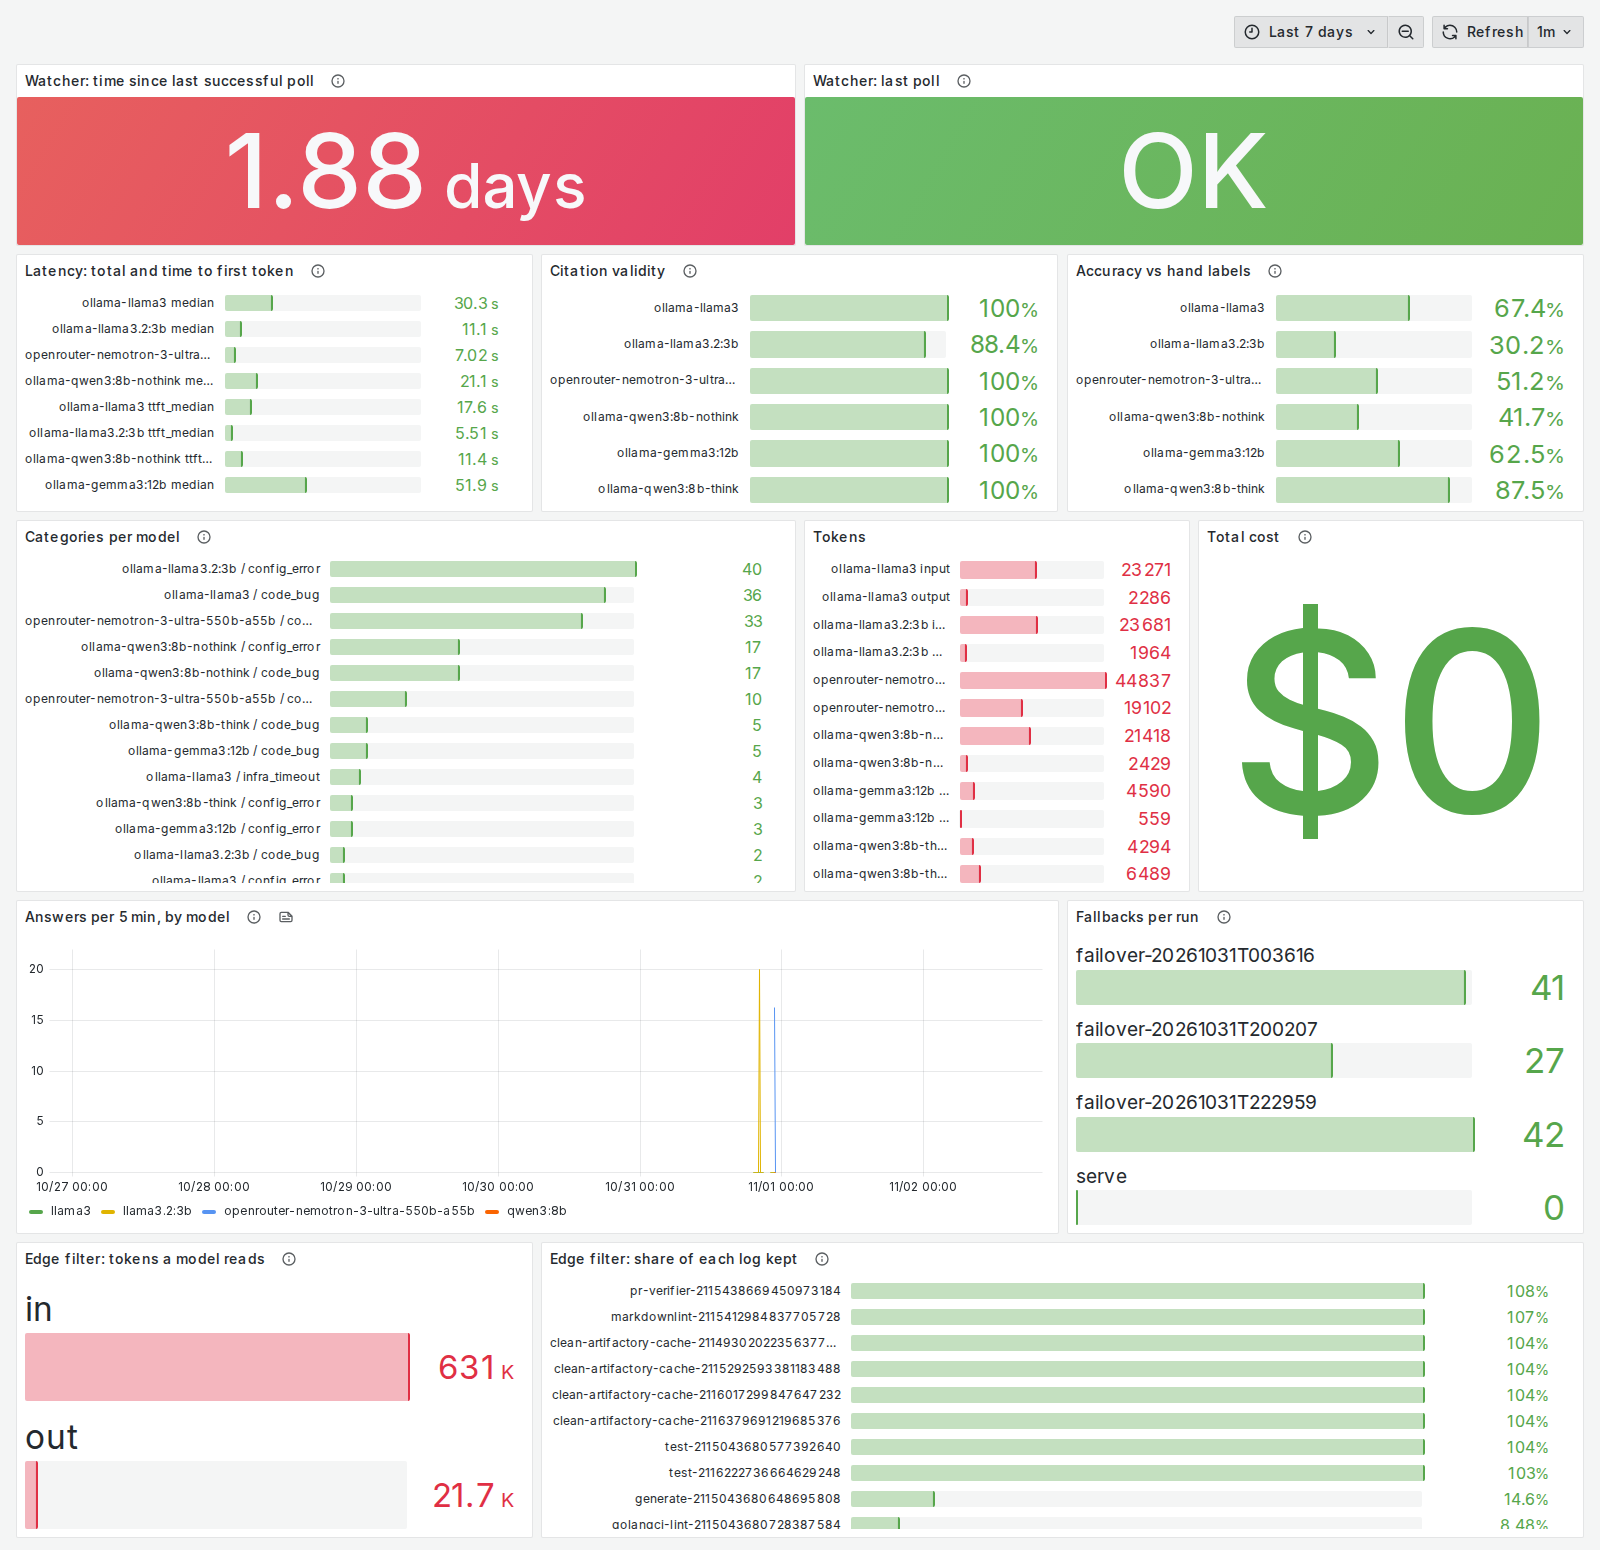
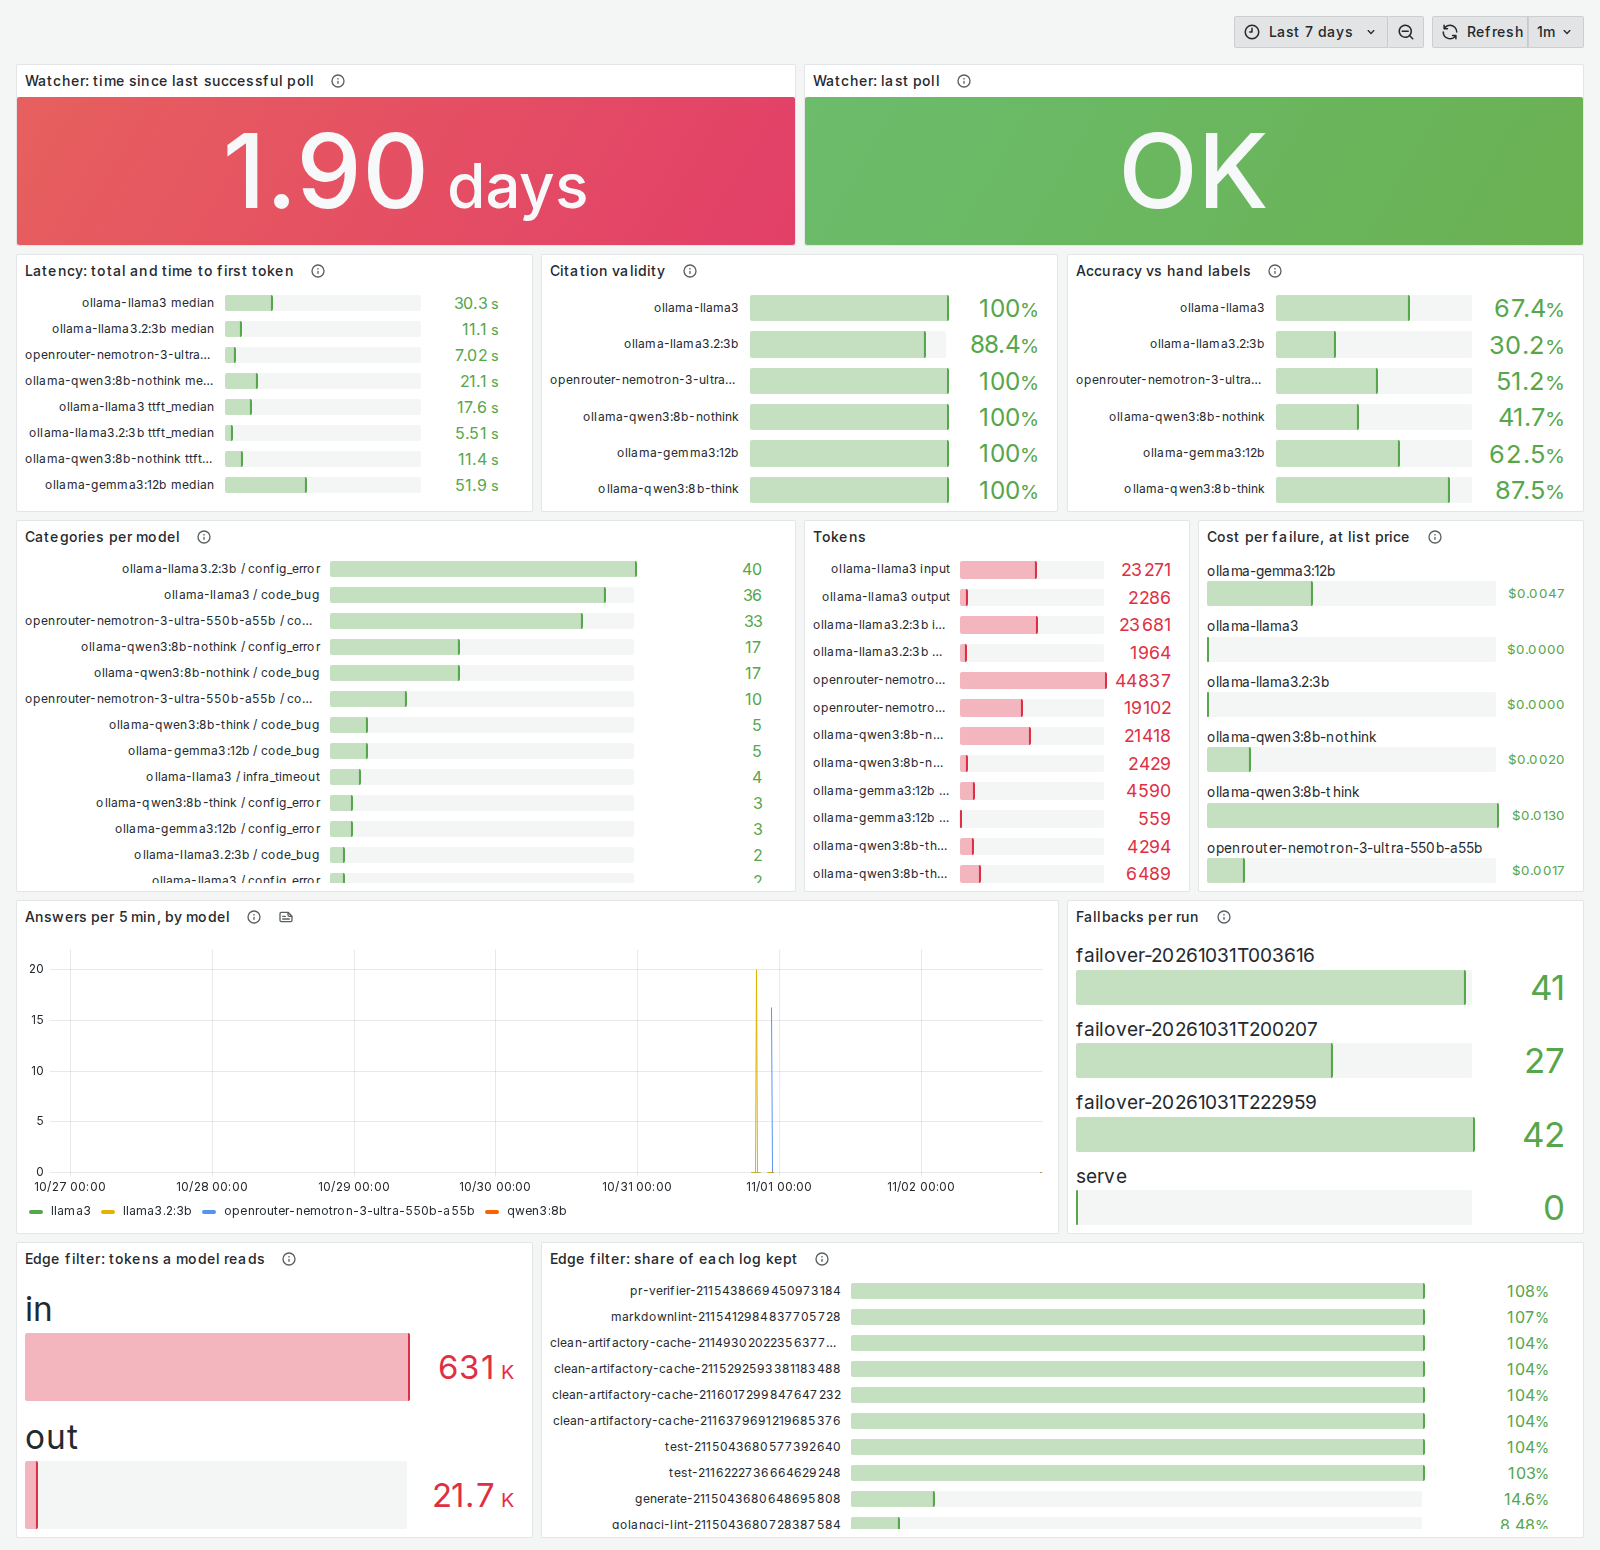
Cost per failure at list price: paid API price for the free model, VM hourly rate for self-hosted

diff --git a/exporter.py b/exporter.py
@@ -42,6 +42,19 @@ def metrics(jobs):
     return "\n".join(out) + "\n"
 
 
+# We run the free OpenRouter tier and a VM we pay for by the hour, so "cost" here is what each answer would cost at list
+# price: the paid variant of the same model (same tokens), or the VM's hourly rate for the time the answer took.
+API_PRICE = {"openrouter-nemotron-3-ultra-550b-a55b": (0.60, 2.40)}  # $ per M tokens in, out; OpenRouter, 2026-11-02
+VM_MODELS = ("ollama-qwen3", "ollama-gemma3")  # ran on the GCP VM; llama3 and 3B ran on the laptop, no cloud cost
+VM_PER_HOUR = 0.295  # e2-standard-8, europe-north1, on demand. ponytail: busy time only; idle VM hours are not spread over answers
+
+
+def list_cost(r):
+    if r["model"] in API_PRICE:
+        p_in, p_out = API_PRICE[r["model"]]
+        return (r["input_tokens"] * p_in + r["output_tokens"] * p_out) / 1e6
+    return r["latency_s"] * VM_PER_HOUR / 3600 if r["model"].startswith(VM_MODELS) else 0.0
+
 def llm_metrics(results, labels, serve_runs):
     """results: triage-*.json dicts with "job" added; labels: {job: category}; serve_runs: {run: [jsonl records]}."""
     from labels import accuracy
@@ -73,8 +86,12 @@ def llm_metrics(results, labels, serve_runs):
     for m, rs in sorted(by_model.items()):
         out += [f'metal3_triage_tokens{{model="{m}",dir="input"}} {sum(r["input_tokens"] for r in rs)}',
                 f'metal3_triage_tokens{{model="{m}",dir="output"}} {sum(r["output_tokens"] for r in rs)}']
-    out += ["# HELP metal3_triage_cost_usd Total API cost per model.", "# TYPE metal3_triage_cost_usd gauge"]
-    out += [f'metal3_triage_cost_usd{{model="{m}"}} {sum(r["cost_usd"] for r in rs)}' for m, rs in sorted(by_model.items())]
+    out += ["# HELP metal3_triage_cost_usd Cost at list price (see list_cost), total and mean per failure, per model.",
+            "# TYPE metal3_triage_cost_usd gauge"]
+    for m, rs in sorted(by_model.items()):
+        c = [list_cost(r) for r in rs]
+        out += [f'metal3_triage_cost_usd{{model="{m}",stat="total"}} {sum(c):.6f}',
+                f'metal3_triage_cost_usd{{model="{m}",stat="per_failure"}} {statistics.mean(c):.6f}']
     out += ["# HELP metal3_triage_accuracy Share of hand-labelled failures the model got right.", "# TYPE metal3_triage_accuracy gauge"]
     for m, rs in sorted(by_model.items()):
         right, n = accuracy(labels, {r["job"]: r["category"] for r in rs})

diff --git a/test_exporter.py b/test_exporter.py
@@ -1,4 +1,4 @@
-from exporter import filter_metrics, llm_metrics, metrics, watch_metrics
+from exporter import filter_metrics, list_cost, llm_metrics, metrics, watch_metrics
 
 
 def job(build, name, state, refs_key="main:a,1:b", repo="bmo", type="presubmit"):
@@ -26,6 +26,11 @@ assert 'metal3_triage_citation_validity{model="m"} 1.0000' in m
 assert 'metal3_triage_accuracy{model="m"} 0.5000' in m
 assert 'metal3_serve_answers{run="failover-x",served_by="none"} 1' in m
 assert 'metal3_serve_fallbacks{run="failover-x"} 2' in m
+api = {"model": "openrouter-nemotron-3-ultra-550b-a55b", "input_tokens": 1_000_000, "output_tokens": 500_000, "latency_s": 9}
+assert round(list_cost(api), 6) == 1.8                                           # tokens at the paid list price
+assert round(list_cost({"model": "ollama-qwen3-8b-think", "latency_s": 3600}), 6) == 0.295  # VM time at the hourly rate
+assert list_cost({"model": "ollama-llama3", "latency_s": 3600}) == 0.0            # laptop
+assert 'metal3_triage_cost_usd{model="m",stat="per_failure"} 0.000000' in m
 w = watch_metrics({"last_poll": 200, "last_success": 100, "error": "URLError: down"})
 assert "metal3_watch_poll_ok 0" in w and "metal3_watch_last_success_timestamp_seconds 100" in w
 assert watch_metrics(None) == ""

diff --git a/README.md b/README.md
@@ -52,20 +52,21 @@ Data: 43 failed Metal3 jobs collected from Prow on 27–31 October 2026, labelle
 
 ### Model comparison
 
-| Model | Runs on | Correct on the 8-failure test set | Correct on the 22 clear-cut failures | Cited lines that exist | Median latency |
-|---|---|---|---|---|---|
-| **qwen3 8B, thinking on** | GCP VM, CPU | **7/8** | n/a | 30/30 | 126 s |
-| Nemotron 3 Ultra 550B | OpenRouter | 6/8 | **20/22** | 173/173 | 7 s |
-| gemma3 12B | GCP VM, CPU | 5/8 | n/a | 26/26 | 52 s |
-| qwen3 8B, thinking off | GCP VM, CPU | 4/8 | 10/20 | 143/143 | 21 s |
-| llama3 8B | laptop, CPU | 4/8 | 8/22 | 187/187 | 30 s |
-| llama3.2 3B | laptop, CPU | 3/8 | 13/22 | 113/127 (89%) | 11 s |
+| Model | Runs on | Correct on the 8-failure test set | Correct on the 22 clear-cut failures | Cited lines that exist | Median latency | Cost per failure, list price |
+|---|---|---|---|---|---|---|
+| **qwen3 8B, thinking on** | GCP VM, CPU | **7/8** | n/a | 30/30 | 126 s | $0.0130 |
+| Nemotron 3 Ultra 550B | OpenRouter | 6/8 | **20/22** | 173/173 | 7 s | $0.0017 |
+| gemma3 12B | GCP VM, CPU | 5/8 | n/a | 26/26 | 52 s | $0.0047 |
+| qwen3 8B, thinking off | GCP VM, CPU | 4/8 | 10/20 | 143/143 | 21 s | $0.0020 |
+| llama3 8B | laptop, CPU | 4/8 | 8/22 | 187/187 | 30 s | n/a (laptop) |
+| llama3.2 3B | laptop, CPU | 3/8 | 13/22 | 113/127 (89%) | 11 s | n/a (laptop) |
 
 What stands out:
 
 - **Reasoning mattered more than size.** qwen3 8B went from 4/8 to 7/8 with thinking on, ahead of the bigger gemma3 12B. The cost is time: about 800 output tokens, mostly reasoning, at about 7 tokens/s on CPU.
 - **llama3 8B was biased.** It labels almost every failure `code_bug`, which is why it scored below the 3B model.
 - **Only the 3B model invented evidence.** 11% of its cited lines were not in the log it was shown.
+- **Self-hosting on CPU cost more, not less.** We used OpenRouter's free tier, so nothing was billed; the cost column prices the same tokens at the paid variant of the same model ($0.60 / $2.40 per million tokens in / out, November 2026). For the VM models it is the answer's latency at the VM's on-demand rate ($0.295/h for an e2-standard-8 in europe-north1). On that basis qwen3 with thinking costs about 8× as much per failure as the API, and that counts only busy time: the VM also costs about $7 a day when idle. What self-hosting buys is that CI logs stay on your own infrastructure.
 - **The 8-failure test set has one example of each kind of clear-cut failure.** It was also used to pick the model, so qwen3's 7/8 is optimistic. Failures collected later are the fair test.
 
 ### Edge filter
